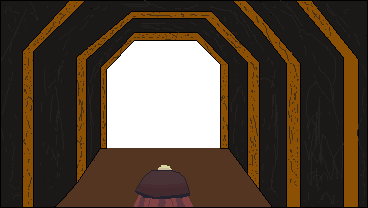
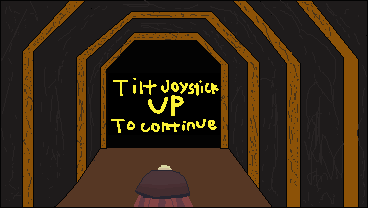
removed unecessary stuff and fixed the end screen entirely, i may add a time.sleep somewhere though

Changed region(s): [[0.269, 0.1731, 0.5978, 0.7212]]

diff --git a/src/game.py b/src/game.py
@@ -47,14 +47,11 @@ current_level.start()
 
 def find_next_level(fb):
     global no_music_timer
-    if current_level_idx == 0:
-        no_music_timer = 0
+    if current_level_idx == 17:
+        switch_level(0)
     elif current_level_idx == 16:
         switch_level(17)
-        get_audio().no_music = True
-    elif current_level_idx == 17:
-        switch_level(0)
-    if run_test_levels:
+    elif run_test_levels:
         switch_level((current_level_idx + fb) % len(levels))
     else:
         switch_level((current_level_idx + fb) % len(main_levels))
@@ -76,12 +73,14 @@ while running:
 
     get_audio().update_music()
 
-
+    if not player_state.total_lives and current_level_idx != 17:
+        switch_level(17)
+        get_audio().stop_music()
     if current_level_idx != 0:
         idle_timer += 1
         if idle_timer >= 1800:
             switch_level(0)
-    elif current_level_idx == 0:
+    else:
         idle_timer = 0
         no_music_timer += 1
 
@@ -165,8 +164,5 @@ while running:
     pygame.display.flip()
 
     clock.tick(60)  # limits FPS to 60
-
-    if not player_state.total_lives and current_level_idx != 17:
-        switch_level(17)
 
 pygame.quit()

diff --git a/src/level_end.py b/src/level_end.py
@@ -1,4 +1,5 @@
 import pygame
+import time
 import pymunk
 
 from player_state import player_state
@@ -10,7 +11,7 @@ class Level(BaseLevel):
     def __init__(self, map_fn):
         super().__init__(map_fn)
 
-        self.lose_image = pygame.image.load('../gfx/game_over.png').convert_alpha()
+        self.lose_image = pygame.image.load('../gfx/you lost.png').convert_alpha()
         self.win_image = pygame.image.load('../gfx/end_screen.png').convert_alpha()
 
     def is_end_level(self):
@@ -23,7 +24,5 @@ class Level(BaseLevel):
             surface.blit(self.win_image, (0, 0))
         else:
             surface.blit(self.lose_image, (0, 0))
-
-        self.render_entities(surface)
 
         return surface

diff --git a/src/entity_particle.py b/src/entity_particle.py
@@ -13,5 +13,5 @@ class ParticleEntity(BaseEntity):
     def act(self, dt):
         g = 300
         self.body.apply_force_at_local_point((0, g*self.body.mass))
-        if time.time() - self.creation_time > 0.5:
+        if time.time() - self.creation_time > .25:
             self.remove()
